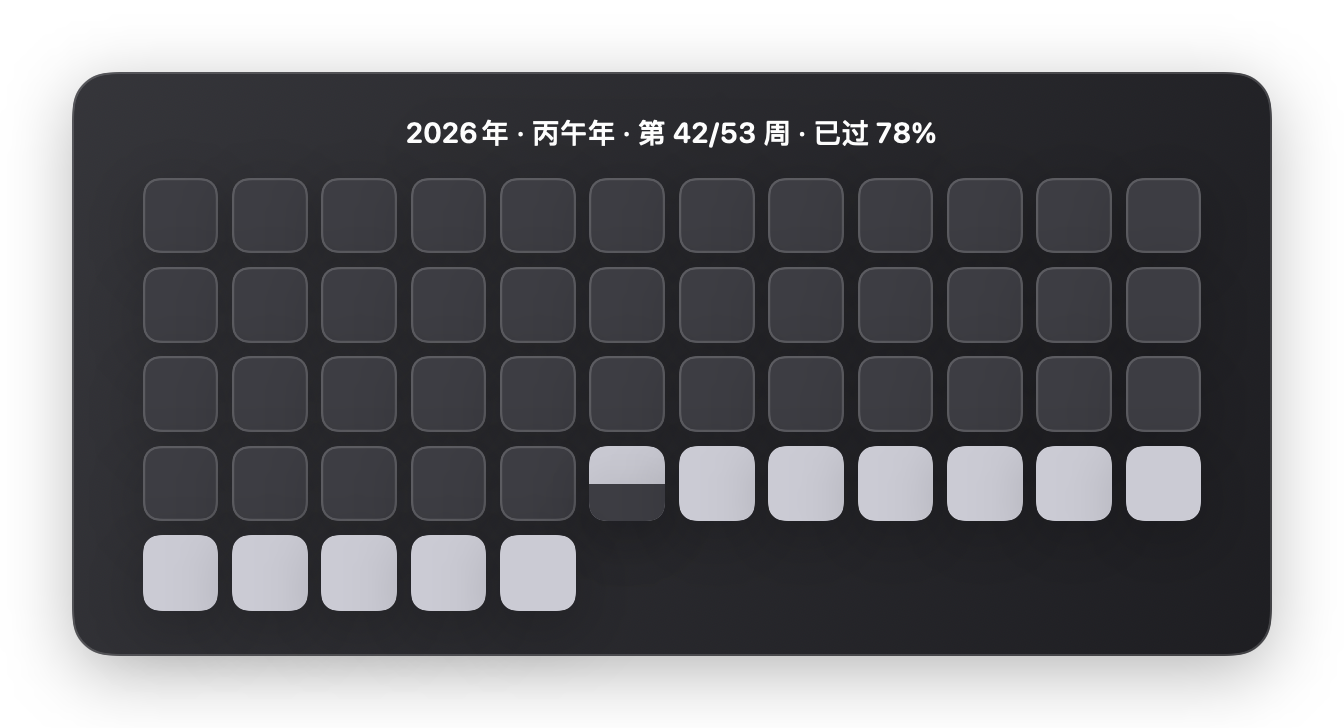
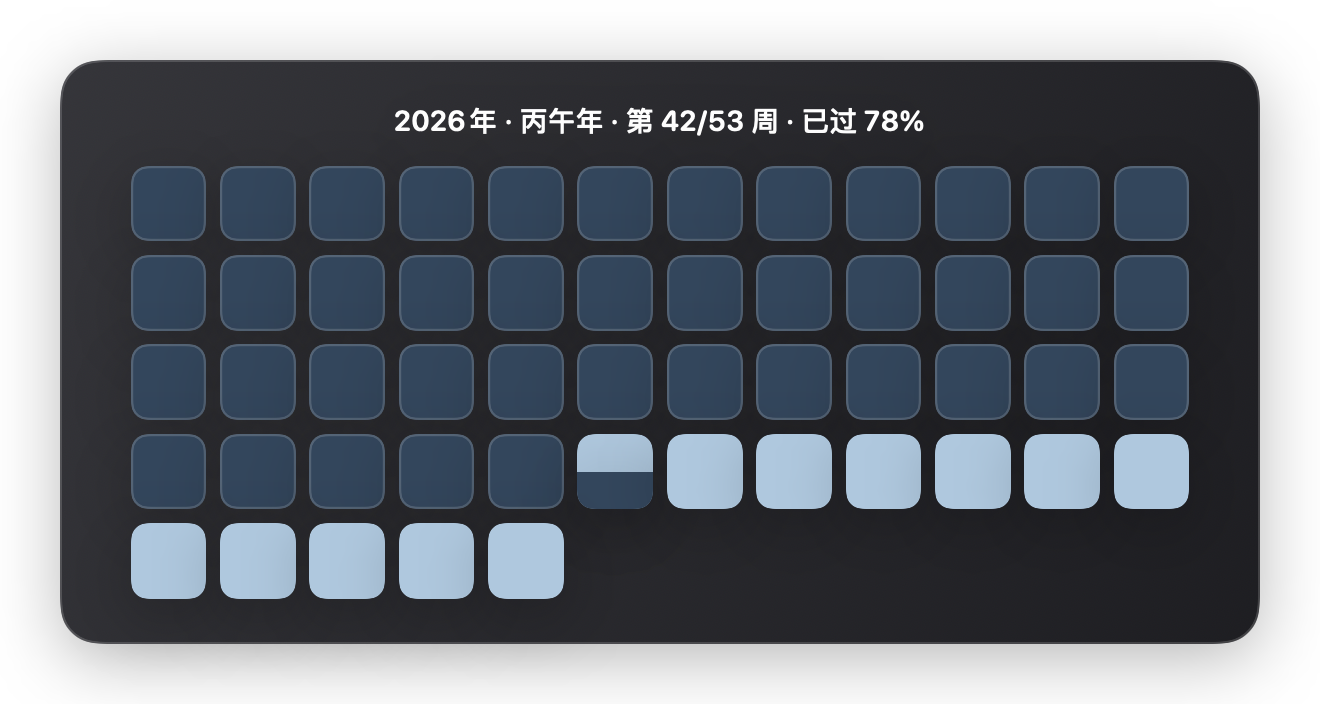
style(graphite): 石墨主题改用深石板蓝/浅冰蓝一对色

Changed region(s): [[0.0311, 0.0625, 0.9629, 0.9375]]

diff --git a/Sources/YearProgressUI/CardTheme.swift b/Sources/YearProgressUI/CardTheme.swift
@@ -37,7 +37,7 @@ public enum CardTheme: String, CaseIterable, Identifiable, Sendable {
     public var pastFill: Color {
         switch self {
         case .violet: return Color(red: 0.184, green: 0.118, blue: 0.341)   // #2F1E57 深梅子
-        case .graphite: return Color(red: 0.239, green: 0.239, blue: 0.263) // #3D3D43 深灰
+        case .graphite: return Color(red: 0.200, green: 0.275, blue: 0.361) // #33465C 深石板蓝
         }
     }
 
@@ -45,7 +45,7 @@ public enum CardTheme: String, CaseIterable, Identifiable, Sendable {
     public var futureFill: Color {
         switch self {
         case .violet: return Color(red: 0.812, green: 0.749, blue: 0.973)   // #CFBFF8 浅薰衣草
-        case .graphite: return Color(red: 0.796, green: 0.796, blue: 0.831) // #CBCBD4 浅灰
+        case .graphite: return Color(red: 0.686, green: 0.784, blue: 0.871) // #AFC8DE 浅冰蓝
         }
     }
 

diff --git a/README.md b/README.md
@@ -3,7 +3,8 @@
 把「一年里的每一周」画成一格小方块：**已过的周是深色块，未来的周是浅色块，本周是浅底 + 从底部升起的深色进度条**。
 顶部一行居中显示「2026年 · 丙午年 · 第 42/53 周 · 已过 78%」，下面是方块网格。
 
-两种状态的颜色都和底色同色系、明度差接近：紫色主题是**深梅子 `#2F1E57` / 浅薰衣草 `#CFBFF8`**。
+两种状态的颜色都和底色同色系、明度差接近：紫色主题是**深梅子 `#2F1E57` / 浅薰衣草 `#CFBFF8`**，
+石墨主题是**深石板蓝 `#33465C` / 浅冰蓝 `#AFC8DE`**。
 （用纯白/纯黑时，浅色在深底上会视觉「发胀」、深色会「收缩」，同尺寸看起来就是不一样大；
 实测两者几何都是 38×38px，纯粹是错觉，所以改用对比更柔和的一对色。）
 
@@ -102,7 +103,7 @@ pluginkit -m -v -p com.apple.widgetkit-extension | grep -i yearprogress
 | 干支纪年 | 按公历年换算：2026 → **丙午年（马）**，2025 → 乙巳年。农历意义上的换年（春节/立春）未接入，如需精确到节气，改 `Ganzhi(year:)` 一处即可。 |
 | 本周进度 | 从周一 00:00 起按 7 天线性折算，体现在方块从底部升起的深色比例上。 |
 | 自动刷新 | 定时到下一个零点 + 系统跨天通知 + 睡眠唤醒 + 时区变更，都会重算。 |
-| 配色 | 不用纯黑/纯白：与底色同色系的「深 + 浅」一对色，明度差左右对称，方块不会一大一小。石墨主题给深色块留 1px 半透明描边，避免与卡片底色粘连。 |
+| 配色 | 不用纯黑/纯白：与底色同色系的「深 + 浅」一对色，明度差左右对称，方块不会一大一小。紫色＝深梅子/浅薰衣草；石墨＝深石板蓝/浅冰蓝（石墨底上留 1px 半透明描边，避免深块与底色粘连）。 |
 
 ## 项目结构
 

diff --git a/PLAN.md b/PLAN.md
@@ -30,8 +30,8 @@
 |---|---|---|
 | 主体 | 一年内的周，一格一周 | ISO 8601 周（周一起始，第 1 周含 1/4） |
 | 网格规模 | 「几个周展示几具小方块」 | 52 或 53 格，自动判定 |
-| 已过 | 白块 | **深梅子 `#2F1E57`**（紫色主题） |
-| 未来 | 黑块 | **浅薰衣草 `#CFBFF8`**（紫色主题） |
+| 已过 | 白块 | **深梅子 `#2F1E57`**（紫色主题）／ **深石板蓝 `#33465C`**（石墨主题） |
+| 未来 | 黑块 | **浅薰衣草 `#CFBFF8`**（紫色主题）／ **浅冰蓝 `#AFC8DE`**（石墨主题） |
 | 当前周 | 未指定 | **浅底 + 从底部升起的深色进度条**（一眼看到「我在哪」） |
 
 > 2026-10-24 修订：按用户要求把黑白互换（已过=深、未来=浅），并且不再用纯黑/纯白——
